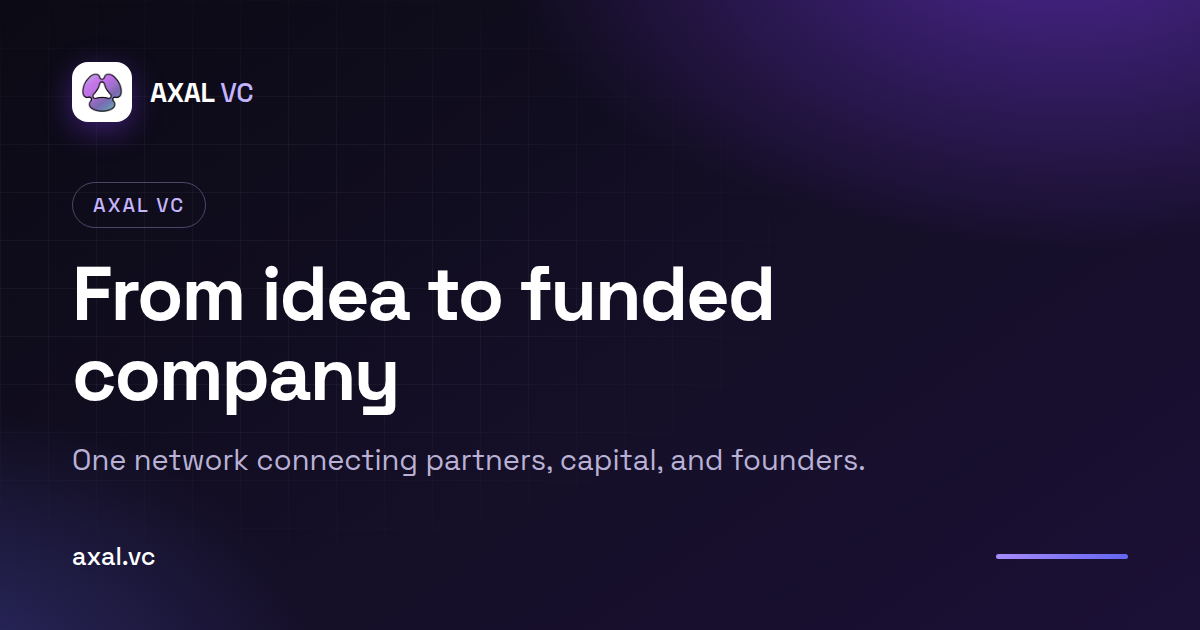
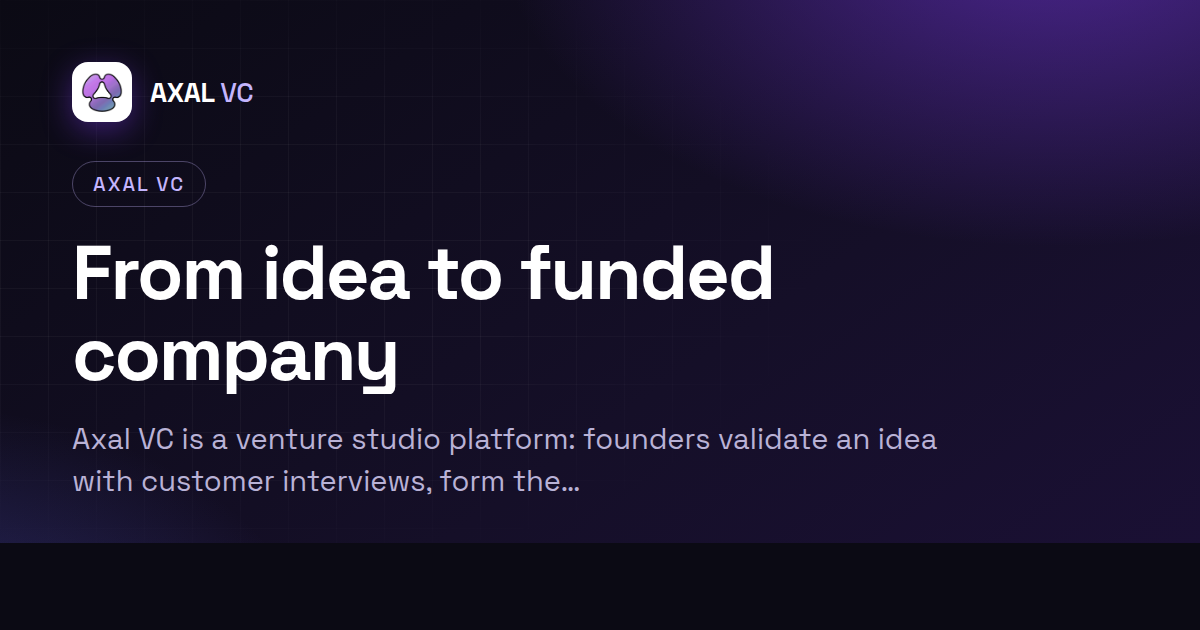
D1379: regenerate the home share card for the new homepage description
The "open graph metadata" check failed: the home card's input (its
description) changed, so frontend/public/og/home.png and its manifest hash
were stale. Regenerated with scripts/generate-og-images.mjs; only the home
card's input changed, so only it is committed. --check, prerender --check
and validate-og-tags pass locally on a fresh build.

Claude-Session: https://claude.ai/code/session_016Q3DcWsMTSxPxJa7tMeDAs

diff --git a/frontend/src/lib/ogManifest.js b/frontend/src/lib/ogManifest.js
@@ -23,7 +23,7 @@ export const OG_MANIFEST = {
   "company": "9e7ceb16",
   "content": "2bc2c9b1",
   "default": "1a45773f",
-  "home": "69a1630b",
+  "home": "b37bea04",
   "jobs": "1dcccfe5",
   "pricing": "8612984c",
   "product": "29a42ae7",
